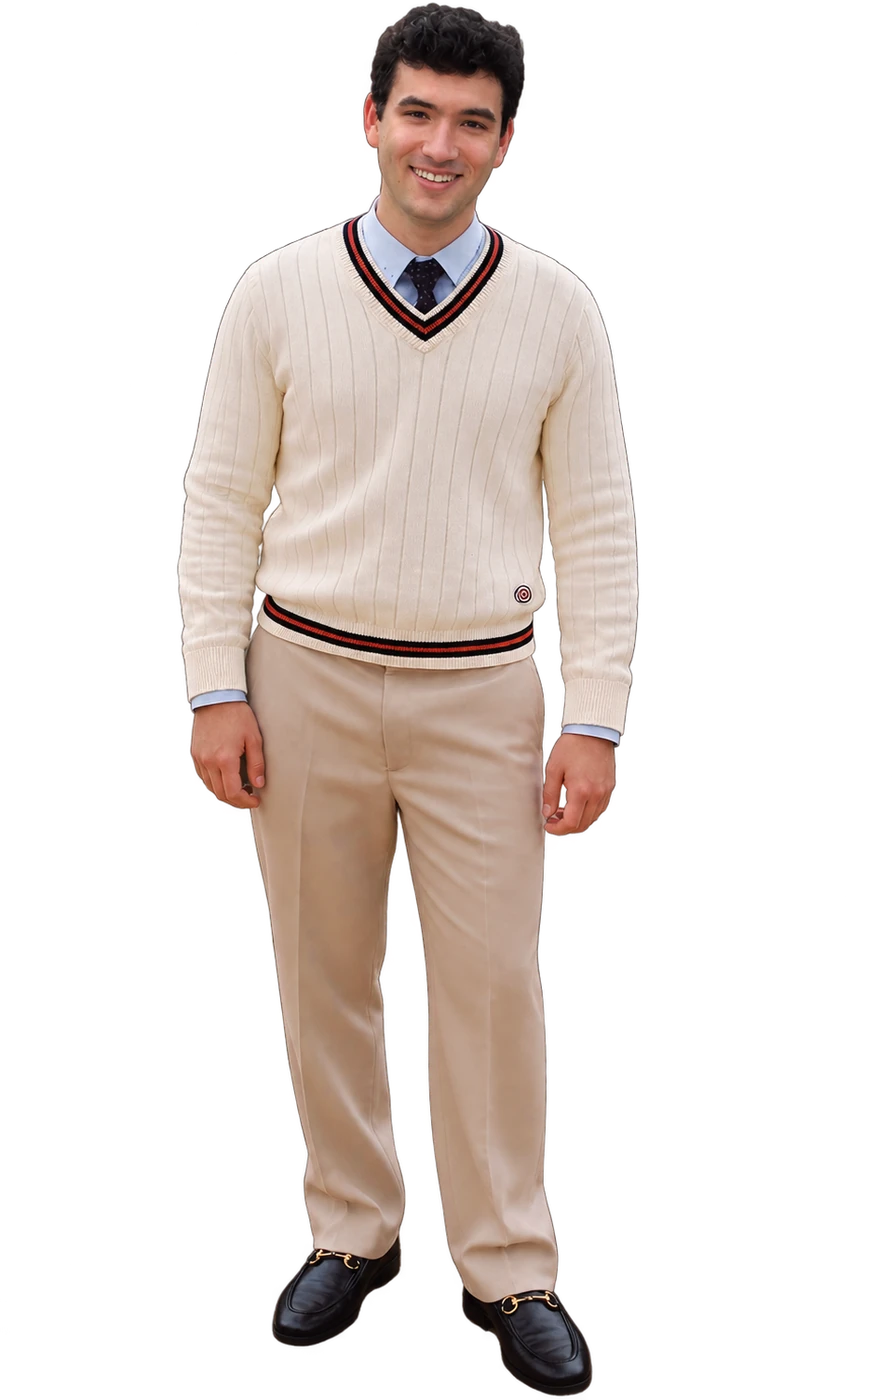
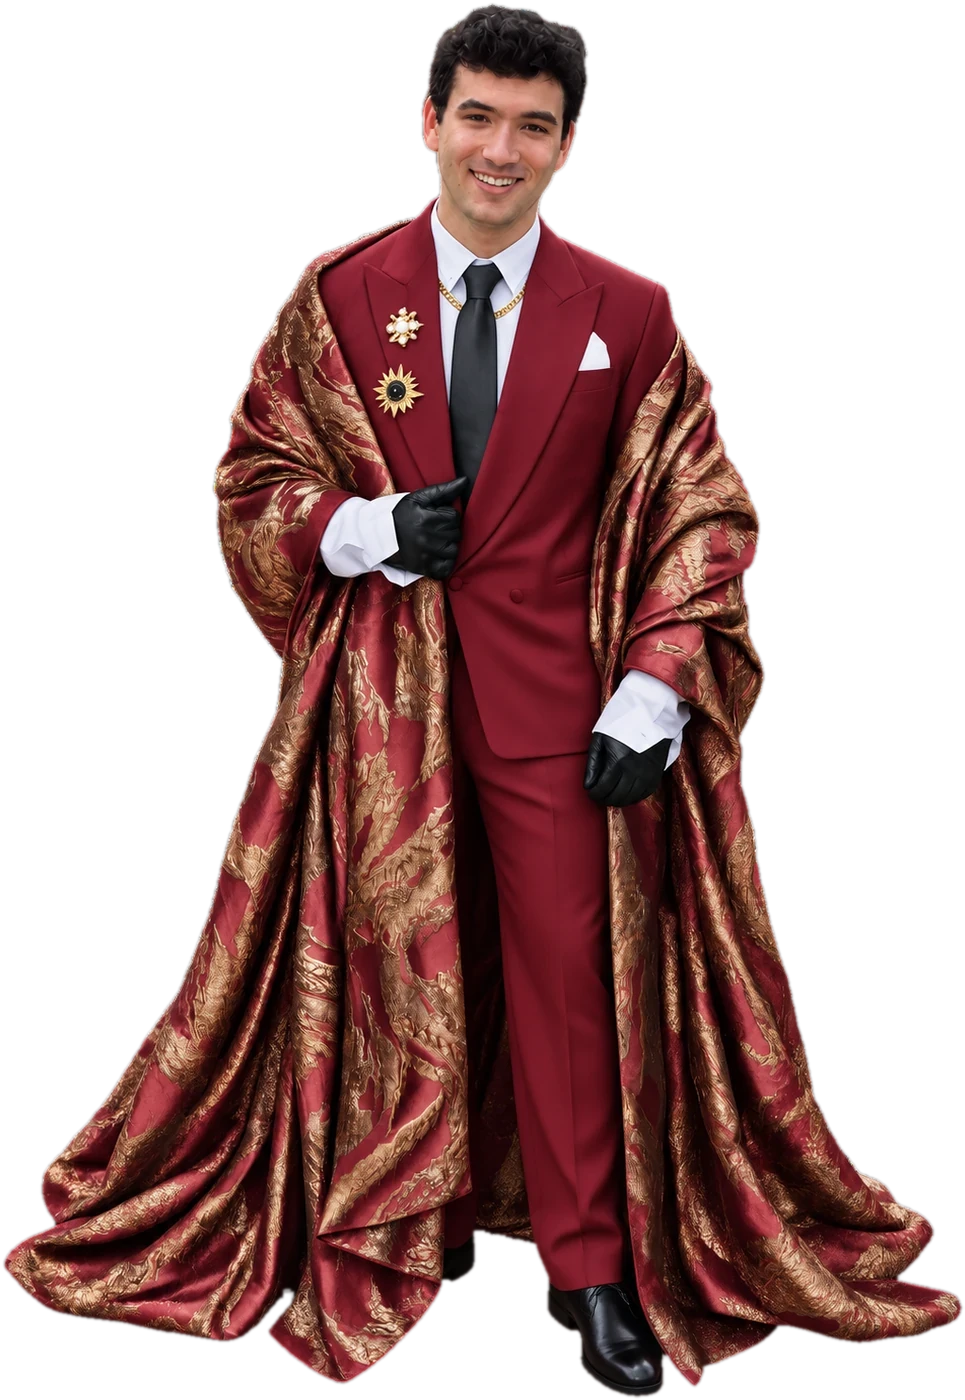
feat(character): New outfit

diff --git a/src/palais/clothes.ts b/src/palais/clothes.ts
@@ -226,6 +226,7 @@ export const CLOTHES = wardrobe({
   "rhianna-dress": { label: "Rhianna dress · marigold brocade gown trimmed in fur", store: "Closet", bought: "", kind: "dress" },
   "yellow-ball-gown": { label: "Yellow ball gown · beaded corset and sunset organza", store: "Closet", bought: "", kind: "dress" },
   "peacock-wings": { label: "Peacock feather wings", store: "Closet", bought: "", kind: "accessory" },
+  "outfit_suit_brocade_robe_crimson_gold_regal_sticker": { label: "Crimson suit under a gold brocade robe · black gloves and jeweled brooches", store: "Closet", bought: "", kind: "coat" },
   "cape_royal_pleated_jeweled_cobalt_blue_sticker": { label: "Royal cobalt blue pleated cape · jeweled capelet trimmed in ivory fur", store: "Closet", bought: "", kind: "coat" },
   "mughal-couture-ensemble": { label: "Mughal-inspired couture ensemble · black velvet cape painted with court scenes, over a gold-embroidered sherwani", store: "Closet", bought: "", kind: "coat" },
   "cloud_cardigan_blue_white_knit_sticker": { label: "Blue cloud knit cardigan", store: "Closet", bought: "", kind: "top" },
@@ -344,7 +345,7 @@ const WIDE: Line[] = [
   { id: "window-hooks-left", name: "Window moulding · hooks down the left", ids: ["pink-sherpa-pom-pom-bucket-bag"], from: [601, 336], to: [601, 636], w: [54, 54], hang: true, z: 36, hooks: 6 },
   { id: "seat", name: "Window seat", ids: ["temu-saddle-bag", "shein-fluffy-shawl", "temu-bow-handbag", "white-prada-re-edition-shoulder-bag", "louis-vuitton-denim-monogram-pochette", "louis-vuitton-damier-azur-felicie-pochette"], from: [918, 690], to: [1020, 690], w: [74, 74], z: 20 },
   // the two rolling rails
-  { id: "rack-left", name: "Left rolling rack", ids: ["ref-shai-dress", "amz-tulle-dress-blue", "dh-knit-skirt-set", "amz-tulle-dress-green", "cider-ruffle-velvet-dress", "amz-fairies-dress", "temu-ditsy-splitdress", "temu-satin-robe", "cider-velvet-corset-dress", "shein-green-organza-dress", "wona-istanbul-chiffon-ruffle-dress-black", "blue-corset-mini-dress", "black-beige-pleated-belted-dress", "denim-corset-flared-dress", "hm-black-white-piped-keyhole-mini-dress", "mint_green_ruffled_corset_gown_sticker", "powder_blue_scarf_maxi_dress_sticker", "arianna-dress", "peacock-dress", "rhianna-dress", "yellow-ball-gown", "mughal-couture-ensemble", "cape_royal_pleated_jeweled_cobalt_blue_sticker"], from: [622, 612], to: [868, 612], w: [118, 118], hang: true, z: 46 },
+  { id: "rack-left", name: "Left rolling rack", ids: ["ref-shai-dress", "amz-tulle-dress-blue", "dh-knit-skirt-set", "amz-tulle-dress-green", "cider-ruffle-velvet-dress", "amz-fairies-dress", "temu-ditsy-splitdress", "temu-satin-robe", "cider-velvet-corset-dress", "shein-green-organza-dress", "wona-istanbul-chiffon-ruffle-dress-black", "blue-corset-mini-dress", "black-beige-pleated-belted-dress", "denim-corset-flared-dress", "hm-black-white-piped-keyhole-mini-dress", "mint_green_ruffled_corset_gown_sticker", "powder_blue_scarf_maxi_dress_sticker", "arianna-dress", "peacock-dress", "rhianna-dress", "yellow-ball-gown", "mughal-couture-ensemble", "cape_royal_pleated_jeweled_cobalt_blue_sticker", "outfit_suit_brocade_robe_crimson_gold_regal_sticker"], from: [622, 612], to: [868, 612], w: [118, 118], hang: true, z: 46 },
   { id: "rack-right", name: "Right rolling rack", ids: ["dh-tweed-set-ivory", "dh-tweed-set-black", "dh-puffer-jacket", "dh-goose-jacket-pink", "amz-floral-sweatshirt", "shein-halfzip", "temu-tie-cardigan", "temu-heart-bikini", "dh-fur-coat", "dh-cc-bikini", "tt-striped-vest-set", "tt-striped-collar-set", "rhone-utility-trench-navy", "zeagoo-fur-lapel-wool-coat-navy", "maroon-wool-trench-coat", "green-wool-cropped-jacket-ruffle-skirt-set", "navy_satin_lace_slip_dress_sticker", "cream_rose_floral_lace_dress_sticker", "ivory_satin_lace_slip_dress_sticker", "forest_green_lace_satin_dress_sticker"], from: [1066, 612], to: [1314, 612], w: [112, 104], hang: true, z: 46 },
   // every pair of shoes, lined up on the tiles in front
   { id: "shoes", name: "Shoes on the floor", ids: ["shein-mint-maryjanes", "amz-coutgo-heels", "amz-lolita-maryjanes", "amz-maryjanes-kalstage", "amz-tstrap-maryjanes", "shein-bow-loafers", "amz-birkenstock-gizeh", "temu-hamster-slippers", "amz-roller-skates", "dh-rain-boots", "tt-black-slingbacks", "tt-red-slingbacks", "shein-fur-snow-boots", "bw-bow-slingback-heels", "sage-burgundy-bow-slingback-heels", "yellow-bow-kitten-heels", "black-patent-chain-platform-loafers", "black-patent-triple-strap-platform-mary-janes", "louis-vuitton-damier-peep-toe-heels"], from: [560, 1030], to: [1380, 1030], w: [84, 84], z: 60 },
@@ -380,7 +381,7 @@ const TALL: Line[] = [
   { id: "seat", name: "Window seat", ids: ["temu-saddle-bag", "temu-fur-buckethat", "temu-rose-beanie", "shein-fluffy-shawl", "temu-fur-headband", "temu-bow-handbag", "dh-check-tote", "dh-hobo-bag", "dh-brown-tote", "shein-bear-ear-bonnet", "shein-black-fur-beanie", "shein-lamb-bonnet", "shein-white-fur-hat", "shein-mint-fur-bucket-hat", "burberry-canvas-tote", "prada-blue-bag", "gucci-gg-shoulder-bag", "icelandic-white-fur-hat", "pink-sherpa-pom-pom-bucket-bag", "black-faux-fur-cuff-bracelets-pair", "white-faux-fur-cuff-bracelets-pair", "white-prada-re-edition-shoulder-bag", "louis-vuitton-denim-monogram-pochette", "louis-vuitton-damier-azur-felicie-pochette", "brown-faux-fur-round-hat", "beige-rib-knit-pom-pom-ears-beanie", "red-faux-fur-round-hat", "pink-faux-fur-round-hat", "green-faux-fur-round-hat"], from: [318, 948], to: [578, 948], w: [50, 50], z: 20 },
   { id: "mirror", name: "Top of the mirror", ids: ["shein-ballet-bows"], from: [655, 560], to: [655, 560], w: [40, 40], hang: true, z: 20 },
   // the rolling rails: the far one with the dresses, the near one with knits and swim
-  { id: "rack-back", name: "Back rolling rack", ids: ["amz-tulle-dress-blue", "amz-tulle-dress-green", "amz-fairies-dress", "temu-ditsy-splitdress", "temu-satin-robe", "ref-shai-dress", "dh-tweed-set-ivory", "dh-tweed-set-black", "dh-knit-skirt-set", "cider-velvet-corset-dress", "cider-ruffle-velvet-dress", "romi-miranda-dress", "cider-jacquard-bandeau-dress", "cider-wine-bandeau-dress", "shein-green-organza-dress", "yellow-floral-dress", "brown-bow-dress", "maroon-corduroy-overall-dress", "lavender-flower-dress", "wona-istanbul-chiffon-ruffle-dress-black", "blue-corset-mini-dress", "black-beige-pleated-belted-dress", "denim-corset-flared-dress", "hm-black-white-piped-keyhole-mini-dress", "navy_satin_lace_slip_dress_sticker", "cream_rose_floral_lace_dress_sticker", "ivory_satin_lace_slip_dress_sticker", "forest_green_lace_satin_dress_sticker", "mint_green_ruffled_corset_gown_sticker", "powder_blue_scarf_maxi_dress_sticker", "arianna-dress", "peacock-dress", "rhianna-dress", "yellow-ball-gown", "mughal-couture-ensemble", "cape_royal_pleated_jeweled_cobalt_blue_sticker"], from: [320, 1010], to: [620, 1010], w: [80, 80], hang: true, z: 30 },
+  { id: "rack-back", name: "Back rolling rack", ids: ["amz-tulle-dress-blue", "amz-tulle-dress-green", "amz-fairies-dress", "temu-ditsy-splitdress", "temu-satin-robe", "ref-shai-dress", "dh-tweed-set-ivory", "dh-tweed-set-black", "dh-knit-skirt-set", "cider-velvet-corset-dress", "cider-ruffle-velvet-dress", "romi-miranda-dress", "cider-jacquard-bandeau-dress", "cider-wine-bandeau-dress", "shein-green-organza-dress", "yellow-floral-dress", "brown-bow-dress", "maroon-corduroy-overall-dress", "lavender-flower-dress", "wona-istanbul-chiffon-ruffle-dress-black", "blue-corset-mini-dress", "black-beige-pleated-belted-dress", "denim-corset-flared-dress", "hm-black-white-piped-keyhole-mini-dress", "navy_satin_lace_slip_dress_sticker", "cream_rose_floral_lace_dress_sticker", "ivory_satin_lace_slip_dress_sticker", "forest_green_lace_satin_dress_sticker", "mint_green_ruffled_corset_gown_sticker", "powder_blue_scarf_maxi_dress_sticker", "arianna-dress", "peacock-dress", "rhianna-dress", "yellow-ball-gown", "mughal-couture-ensemble", "cape_royal_pleated_jeweled_cobalt_blue_sticker", "outfit_suit_brocade_robe_crimson_gold_regal_sticker"], from: [320, 1010], to: [620, 1010], w: [80, 80], hang: true, z: 30 },
   { id: "rack-front", name: "Front rolling rack", ids: ["amz-floral-sweatshirt", "shein-halfzip", "temu-tie-cardigan", "temu-heart-bikini", "temu-beach-swimsuit", "dh-goose-jacket-pink", "dh-puffer-jacket", "dh-fur-coat", "dh-cc-bikini", "tt-striped-vest-set", "tt-striped-collar-set", "cream-fluffy-coat", "brown-quilted-knit-jacket", "rhone-utility-trench-navy", "zeagoo-fur-lapel-wool-coat-navy", "maroon-wool-trench-coat", "green-wool-cropped-jacket-ruffle-skirt-set", "cloud_cardigan_blue_white_knit_sticker"], from: [232, 1215], to: [708, 1215], w: [92, 92], hang: true, z: 40 },
   // on the tiles in front
   { id: "floor-front", name: "On the floor · front", ids: ["temu-mantilla", "temu-butterfly-scarf", "temu-strawberry-bandana", "temu-lace-gloves", "temu-floral-gloves", "amz-ski-gloves", "amz-ruffle-socks", "dh-leather-belt", "cider-crochet-scarf", "tt-cat-eye-6pack", "tt-beige-cat-eye", "tt-wine-oval-sunglasses", "tt-satin-bow-ties", "heart-sunglasses", "ivory-ribbon-hair-bow"], from: [140, 1520], to: [800, 1520], w: [58, 58], z: 50 },
@@ -474,6 +475,7 @@ const SIZE: Partial<Record<GarmentId, number>> = {
   "yellow-ball-gown": 0.72,
   "mughal-couture-ensemble": 0.72,
   "cape_royal_pleated_jeweled_cobalt_blue_sticker": 0.72,
+  "outfit_suit_brocade_robe_crimson_gold_regal_sticker": 0.72,
 };
 
 /** where everything goes, with each rail's pieces in the order given (a

diff --git a/src/palais/CharacterCatalog.tsx b/src/palais/CharacterCatalog.tsx
@@ -162,10 +162,10 @@ const CAST: Character[] = [
     id: "bryan",
     name: "Bryan",
     tag: "friend of the Palais",
-    blurb: "Bryan in a cream cricket jumper over a blue shirt and tie, hands at his sides, smiling straight at whoever's taking the picture.",
-    notes: ["A cream cable jumper with navy and red tipping", "A pale blue shirt and a spotted navy tie", "Tan pleated trousers", "Black horsebit loafers"],
-    color: "#c8b48a",
-    face: 0.08,
+    blurb: "Bryan in a crimson suit with a robe of crimson and gold brocade thrown over his shoulders, black leather gloves and two jeweled brooches, grinning straight at you.",
+    notes: ["A crimson double-breasted suit", "A crimson and gold brocade robe to the floor", "Black leather gloves and a black silk tie", "A pearl brooch, a black sunburst brooch and a gold chain"],
+    color: "#9b1b30",
+    face: 0.07,
     sticker: "character_bryan_sticker",
   },
   {
